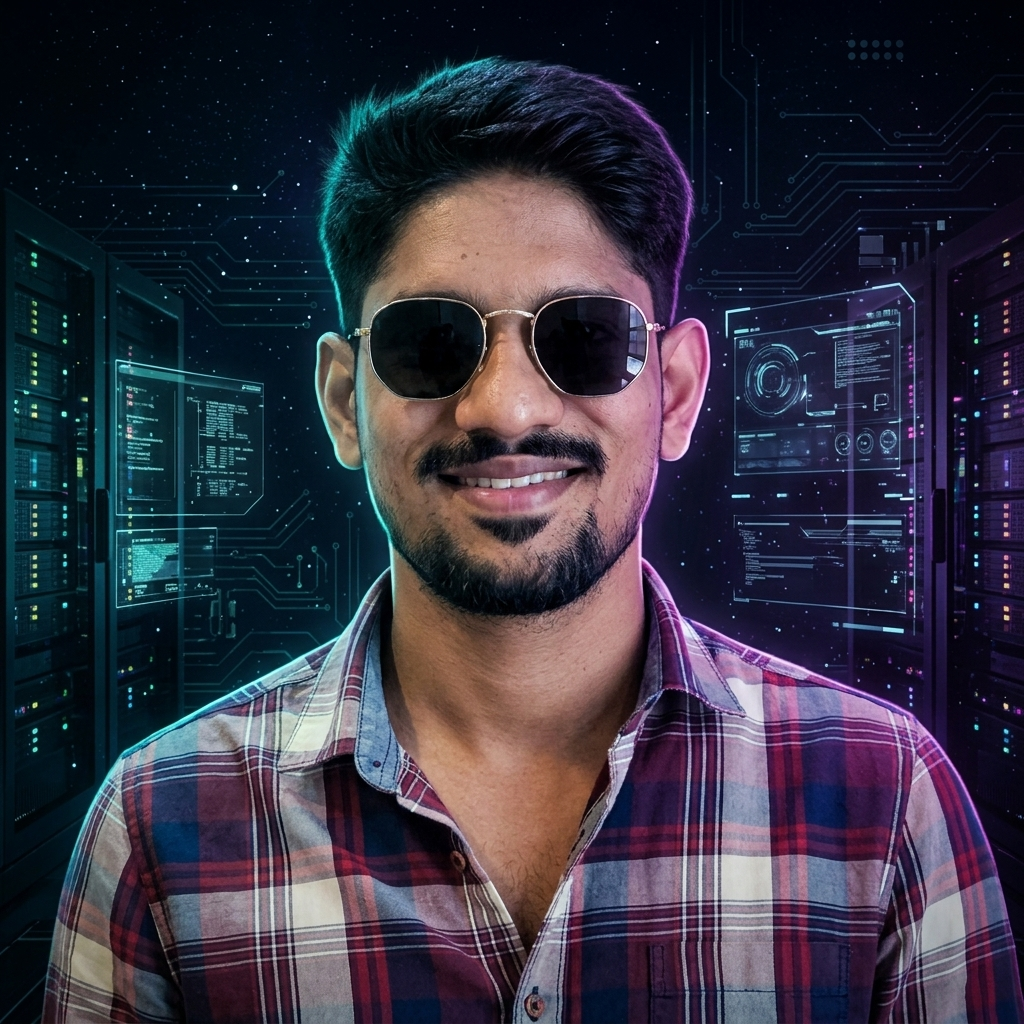
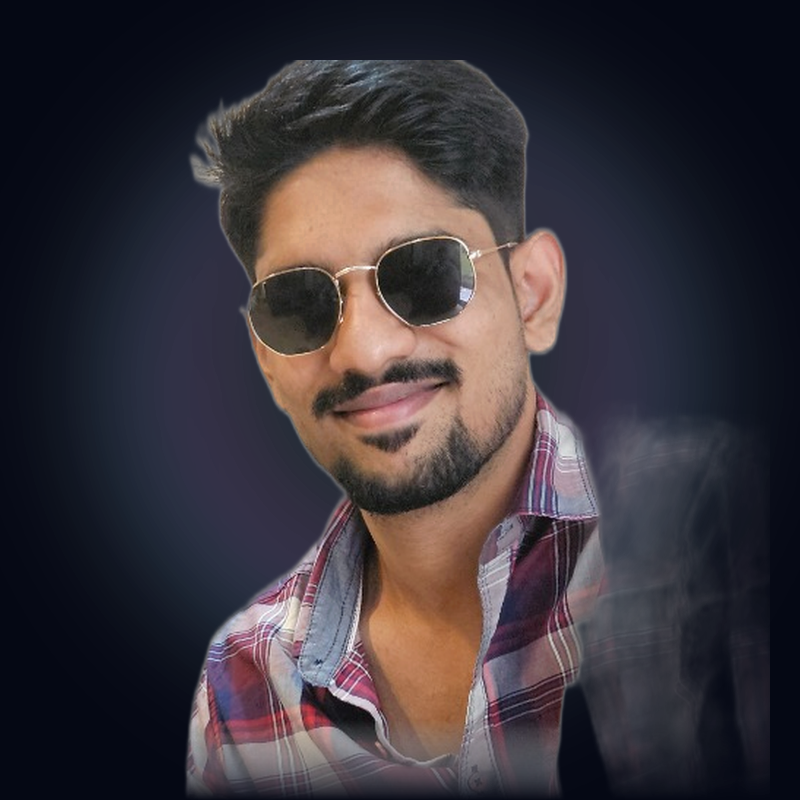
fix: map tailwind v4 font variables and sync profile image fallbacks for production parity

diff --git a/src/app/globals.css b/src/app/globals.css
@@ -1,6 +1,9 @@
 @import "tailwindcss";
 
 @theme {
+  --font-sans: var(--font-inter), -apple-system, BlinkMacSystemFont, "Segoe UI", Roboto, sans-serif;
+  --font-mono: var(--font-mono), "JetBrains Mono", ui-monospace, SFMono-Regular, Menlo, Monaco, Consolas, monospace;
+  --font-space: var(--font-space), "Space Grotesk", sans-serif;
   --color-neon-cyan: #00f0ff;
   --color-neon-pink: #ff007f;
   --color-neon-purple: #8a2be2;
